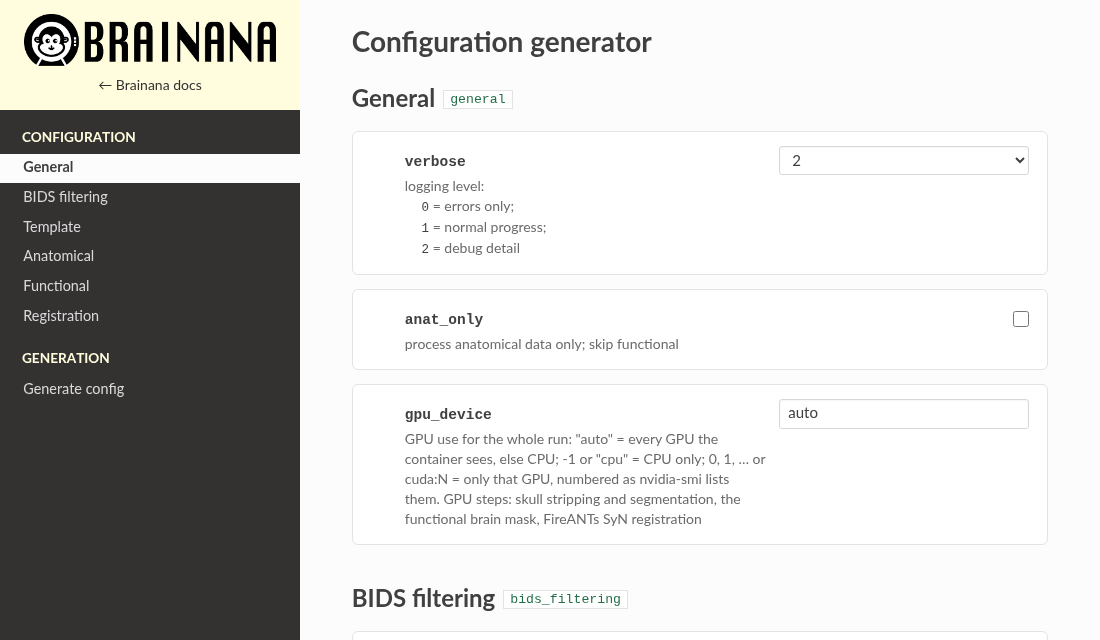
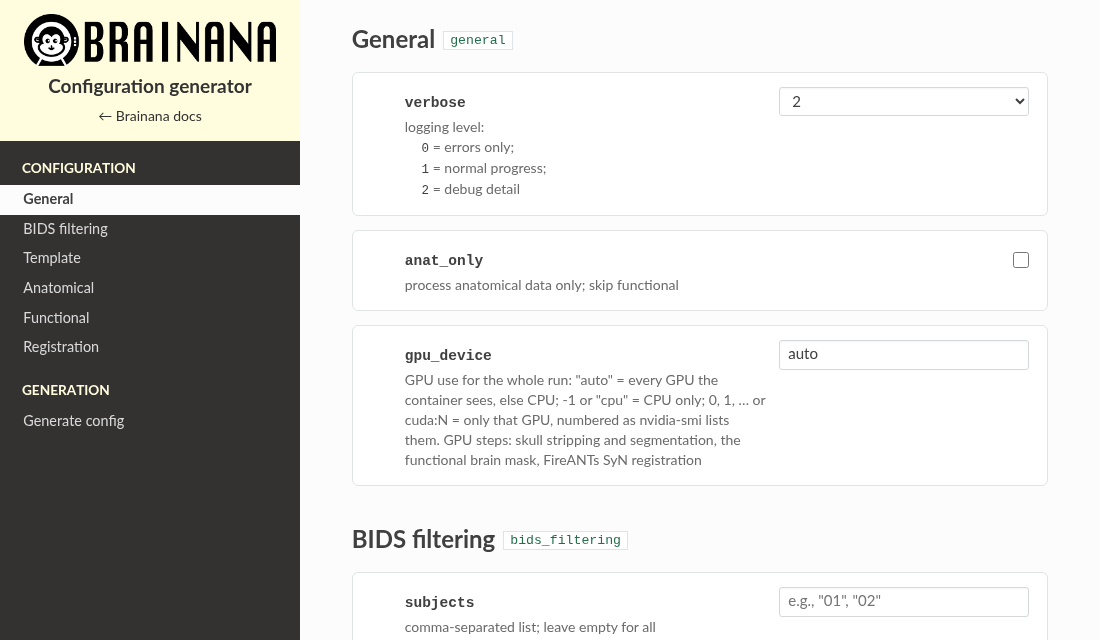
docs: merge the style guides; generator title in the sidebar; search box border
- Merge styleguide.html into styleguide_doc.html as §14 "Brand surfaces: QC report
  and notebook" (brand tokens, rules, scoped component previews) and delete it;
  point DESIGN_SYSTEM.md and the brainana-tokens.css header at the merged guide.
- Configuration generator: the app name moves into the cream sidebar header under
  the logo, so the page reads as a tool rather than a docs page; the main area
  starts at General. Generator script and default YAML unchanged.
- Docs search box: cream hairline instead of the theme's blue border (purple on focus).

diff --git a/docs_temp/update_instruction/design_system/styleguide_doc.html b/docs_temp/update_instruction/design_system/styleguide_doc.html
@@ -1,7 +1,7 @@
 <!DOCTYPE html><html lang="en"><head>
 <meta charset="utf-8"/><meta name="viewport" content="width=device-width, initial-scale=1"/>
 <title>Brainana docs style guide</title>
-<link rel="stylesheet" href="https://fonts.googleapis.com/css2?family=Lato:ital,wght@0,400;0,700;1,400&family=Roboto+Slab:wght@400;700&display=swap"/>
+<link rel="stylesheet" href="https://fonts.googleapis.com/css2?family=Lato:ital,wght@0,400;0,700;1,400&family=Roboto+Slab:wght@400;700&family=IBM+Plex+Sans:wght@400;600&family=IBM+Plex+Mono:wght@400;500&display=swap"/>
 <style>
 /* Page chrome previews the target: sphinx_rtd_theme layout + type, with the RTD blue swapped for brainana purple. */
 :root{
@@ -95,11 +95,42 @@ table.t th{font-weight:700;color:var(--bn-ink);background:var(--bn-surface)}
 .tok .nm code{background:none;border:0;padding:0;color:var(--bn-ink);font-weight:700;font-size:12px}
 .tok .hx{font-family:var(--bn-mono);color:var(--bn-muted);font-size:11.5px}
 .tok .role{color:var(--bn-text);margin-top:2px}
+
+/* ---- §14 brand previews: brand tokens scoped to .brand so they never touch the guide's own chrome.
+   Values mirror brainana-tokens.css (canonical). ---- */
+.brand{--bn-bg:#fffeee;--bn-surface:#fffddd;--bn-inset:#ffffff;--bn-ink:#1b1b16;--bn-text:#333333;--bn-muted:#6b6651;
+  --bn-border:#e6e1cd;--bn-border-mid:#cdc9b0;--bn-code-bg:#f7f6ef;--bn-accent:#fff27a;--bn-link:#8a7a00;--bn-link-hover:#6f6300;
+  --bn-btn-bg:#111111;--bn-btn-bg-hover:#333333;--bn-btn-fg:#ffffff;
+  --bn-ok:#3f6b46;--bn-ok-bg:#eef3ea;--bn-ok-border:#cdddc2;--bn-fail:#9c4636;--bn-fail-bg:#f8ece8;--bn-fail-border:#e7c8bd;
+  --bn-warn:#8a6400;--bn-warn-bg:#fdf3d6;--bn-warn-border:#e6d8a0;
+  --bn-r-card:10px;--bn-r-inset:8px;--bn-r-chip:6px;--bn-r-pill:999px;
+  --bn-bfont:"IBM Plex Sans",system-ui,-apple-system,"Segoe UI",Roboto,Helvetica,Arial,sans-serif;
+  --bn-bmono:"IBM Plex Mono",ui-monospace,SFMono-Regular,Menlo,monospace;
+  font-family:var(--bn-bfont);color:var(--bn-text);background:var(--bn-bg);border:1px solid var(--bn-border);border-radius:var(--bn-r-card);padding:18px 20px;margin:10px 0}
+.brand .b-h1{font-family:var(--bn-bfont);font-size:1.5em;font-weight:600;color:var(--bn-ink);border-bottom:3px solid var(--bn-accent);padding-bottom:.3em;margin:0 0 14px}
+.brand .b-h2{font-family:var(--bn-bfont);font-size:1.2em;font-weight:600;color:var(--bn-ink);border-bottom:1px solid var(--bn-border);padding-bottom:.3em;margin:16px 0 12px}
+.brand a{color:var(--bn-link)} .brand a:hover{color:var(--bn-link-hover)}
+.brand .bn-card{background:var(--bn-inset);border:1px solid var(--bn-border-mid);border-radius:var(--bn-r-card);padding:1em 1.2em;box-shadow:0 1px 2px rgba(60,50,0,.06)}
+.brand .bn-callout{background:var(--bn-bg);border:1px solid var(--bn-border-mid);border-left:3px solid var(--bn-accent);border-radius:var(--bn-r-card);padding:.9em 1.15em}
+.brand .bn-code{font-family:var(--bn-bmono);font-size:85%;background:var(--bn-code-bg);border:0;border-radius:var(--bn-r-chip);padding:.2em .4em;color:var(--bn-text)}
+.brand .bn-tag{font-family:var(--bn-bmono);font-size:.85em;background:var(--bn-surface);border:1px solid var(--bn-border-mid);border-radius:var(--bn-r-chip);padding:.08em .4em;color:var(--bn-text)}
+.brand .bn-btn{font-family:inherit;font-size:.95rem;background:var(--bn-btn-bg);color:var(--bn-btn-fg);border:1px solid var(--bn-btn-bg);border-radius:var(--bn-r-inset);padding:.5em 1.1em}
+.brand .bn-btn.ghost{background:var(--bn-muted);border-color:var(--bn-muted)}
+.brand .bn-badge{display:inline-block;font-size:.7rem;font-weight:600;letter-spacing:.04em;text-transform:uppercase;padding:2px 8px;border-radius:var(--bn-r-pill);border:1px solid currentColor;line-height:1.5}
+.brand .bn-badge.ok{color:var(--bn-ok)} .brand .bn-badge.fail{color:var(--bn-fail)} .brand .bn-badge.warn{color:var(--bn-warn)}
+.brand .bn-status{border:1px solid var(--bn-border-mid);border-left:3px solid var(--bn-border-mid);border-radius:var(--bn-r-card);padding:.9em 1.15em;background:var(--bn-inset);margin-top:10px}
+.brand .bn-status.ok{border-left-color:var(--bn-ok)} .brand .bn-status.warn{border-left-color:var(--bn-warn)} .brand .bn-status.fail{border-left-color:var(--bn-fail)}
+.brand .bn-status .head{display:flex;align-items:center;gap:8px;font-weight:600;margin:0 0 .4em;color:var(--bn-ink)}
+.brand .bn-status .meta{display:flex;flex-wrap:wrap;gap:6px 18px;list-style:none;padding:0;margin:10px 0 0;font-size:.9em;color:var(--bn-muted)}
+.brand .bn-status .meta b{color:var(--bn-text);font-weight:600}
+.brand .bn-status .bnote{margin:8px 0 0;font-size:.95em;color:var(--bn-text)}
+.brand .row{display:flex;flex-wrap:wrap;gap:14px;align-items:flex-start;margin-top:12px}
+.brand .row>*{flex:1 1 240px}
 </style></head>
 <body class="bn-root">
 <div class="topbar">Brainana docs<span>style guide for Read the Docs</span></div>
 <div class="wrap">
-<p class="back"><a href="styleguide.html">← Brainana design system (QC report, config generator, notebook)</a></p>
+<p class="back">QC report and notebook use the cream/yellow brand system instead: see <a href="#brand">§14 Brand surfaces</a>.</p>
 <h1 class="bn-h1">Brainana docs style guide</h1>
 <p class="lead">How the Read the Docs site at <code>docs/*.rst</code> should look and read. Brainana keeps the stock
 <code>sphinx_rtd_theme</code> and makes it quieter. Content changes happen in markup and wording. CSS stays a thin layer in
@@ -119,6 +150,7 @@ table.t th{font-weight:700;color:var(--bn-ink);background:var(--bn-surface)}
 <a href="#interactive">11. Interactive pages</a>
 <a href="#feature">12. Feature card: the config generator</a>
 <a href="#checklist">13. Review checklist</a>
+<a href="#brand">14. Brand surfaces: QC report and notebook</a>
 </nav>
 
 <!-- ============================================================ -->
@@ -281,7 +313,7 @@ map to <code>neutral</code>, <code>neutral</code>, <code>purple</code> and <code
 <table class="t">
 <tr><th>Element</th><th>Rule</th></tr>
 <tr><td>Theme</td><td><code>sphinx_rtd_theme</code> layout and type (Lato body, Roboto Slab headings, dark <code>#343131</code> sidebar). Only its accent changes: every RTD blue <code>#2980b9</code> becomes purple.</td></tr>
-<tr><td>Accent swap in <code>custom.css</code></td><td>Links and visited links <code>#6a4fb3</code>, hover <code>#563c9c</code> (6.2:1 contrast on white). Purple links are for the page body only; the dark sidebar keeps RTD's light-grey links. The sidebar uses the brand cream <code>--bn-surface</code> <code>#fffddd</code> for the logo header <code>.wy-side-nav-search</code>, the hover/active rows and the mobile top bar (all with dark <code>#333</code> text), and for the section labels. This is the one place the yellow brand family appears on RTD, next to the cream code blocks.</td></tr>
+<tr><td>Accent swap in <code>custom.css</code></td><td>Links and visited links <code>#6a4fb3</code>, hover <code>#563c9c</code> (6.2:1 contrast on white). Purple links are for the page body only; the dark sidebar keeps RTD's light-grey links. The sidebar uses the brand cream <code>--bn-surface</code> <code>#fffddd</code> for the logo header <code>.wy-side-nav-search</code>, the hover/active rows and the mobile top bar (all with dark <code>#333</code> text), and for the section labels. The search box in the header uses the cream hairline <code>#e6e1cd</code> (purple on focus) instead of the theme's blue border. This is the one place the yellow brand family appears on RTD, next to the cream code blocks.</td></tr>
 <tr><td>Amber</td><td>The only color outside the brand pair: <code>#d68a2e</code> rule / <code>#9a5d12</code> title, on <code>warning</code> boxes only. RTD's other oranges (the version badge and the default admonition bars) are recolored.</td></tr>
 <tr><td>Code blocks</td><td>Use the brand page cream <code>--bn-bg</code> (<code>#fffeee</code> fill) with the brand hairline <code>#e6e1cd</code> border. It is the same yellow family as the cream sidebar, light enough to stay calm, and the border defines the block against the near-white page. Use it for every block and for widget output.</td></tr>
 <tr><td>Headings</td><td>Theme default color everywhere. <strong>Remove the blue FAQ question headings</strong>: blue on a heading reads as a link.</td></tr>
@@ -491,7 +523,7 @@ Do not use <code>important</code>, <code>caution</code>, <code>attention</code>,
 <ul class="rules">
 <li>Widgets embedded <em>inside</em> an RTD page follow this guide: neutral greys (<code>#f6f7f8</code> panels, <code>#d6d9dc</code> borders), purple for interactive accents, and the §4 code surface for code output.
  <strong>No dark code panel</strong> (the builder's <code>#1e1e2e</code>/<code>#cdd6f4</code>), no GitHub grey (<code>#f6f8fa</code>/<code>#d0d7de</code>) and no amber hint box (<code>#fff8e1</code>/<code>#f9a825</code>). Hints use the §6 note style.</li>
-<li>The standalone configuration generator follows this guide too: the dark sidebar with the cream logo header and a "← Brainana docs" link, Lato bold section titles (unlike the docs' Roboto Slab) with the config key as a chip; every direct child of a section is a white card (a plain option, or a pipeline module with its checkbox and its advanced settings opening inside the card); each option inside a card is a settings row (name and help on the left, control in a fixed right column, hairline between rows); subgroups are small muted key labels; purple controls, a cream <code>--bn-surface</code> <strong>Generate</strong> button (dark text, <code>#e6e1cd</code> border, purple border on hover), amber validation errors, green success notes, and YAML output in the code surface. Its stylesheet is a single <code>&lt;style&gt;</code> block built from the §2 tokens.</li>
+<li>The standalone configuration generator follows this guide too: the dark sidebar whose cream header carries the logo, the app name "Configuration generator" (so the page reads as a tool, not a docs page; the main area has no page title) and a "← Brainana docs" link; Lato bold section titles (unlike the docs' Roboto Slab) with the config key as a chip; every direct child of a section is a white card (a plain option, or a pipeline module with its checkbox and its advanced settings opening inside the card); each option inside a card is a settings row (name and help on the left, control in a fixed right column, hairline between rows); subgroups are small muted key labels; purple controls, the cream <code>--bn-surface</code> <strong>Generate</strong> button (dark text, <code>#e6e1cd</code> border, purple border on hover), amber validation errors, green success notes, and YAML output in the code surface. Its stylesheet is a single <code>&lt;style&gt;</code> block built from the §2 tokens.</li>
 <li>Inline <code>&lt;style&gt;</code> in a widget is scoped under one wrapper class, so it can't leak into the theme.</li>
 </ul>
 
@@ -572,5 +604,69 @@ and, optionally, a <code>:bn-tag:`Recommended`</code> pill. The second option ge
 <li>Links to the configuration generator go to <code>:doc:`config_generator`</code>.</li>
 <li>Local build (<code>docs/build_rtd_local.sh</code>, <code>.rtd-venv</code>) shows no new warnings.</li>
 </ul>
+
+<!-- ============================================================ -->
+<h2 class="bn-h2" id="brand">14. Brand surfaces: QC report and notebook</h2>
+<p>The HTML <strong>QC report</strong> and the <strong>Brainana Lite notebook header</strong> use the cream/yellow brand system with IBM Plex, not the docs look above.
+Its canonical values are in <code>brainana-tokens.css</code> (this folder). Each surface carries its own copy by necessity:</p>
+<table class="t">
+<tr><th>Surface</th><th>Where the tokens live</th><th>Why</th></tr>
+<tr><td>QC report</td><td>inlined in <code>src/nhp_mri_prep/quality_control/reports.py</code> as <code>_REPORT_CSS</code> (+ the dropdown JS <code>_REPORT_JS</code>)</td><td>reports are portable single HTML files, with no sibling CSS</td></tr>
+<tr><td>Notebook header</td><td>inline <code>style="…"</code> in <code>examples/BrainanaLite.ipynb</code> cell 0</td><td>Colab sanitizes <code>&lt;style&gt;</code> and external CSS in markdown cells</td></tr>
+<tr><td>This guide</td><td>a <code>.brand</code>-scoped copy for the previews below</td><td>keeps brand variables away from the guide's docs chrome</td></tr>
+</table>
+<p class="note">When you change a brand token, update <code>brainana-tokens.css</code> and mirror the value into every surface above. More detail: <code>DESIGN_SYSTEM.md</code>.</p>
+
+<h3>Brand tokens</h3>
+<div class="tokgrid">
+  <div class="tok"><span class="chip" style="background:#fffeee"></span><span class="nm"><code>--bn-bg</code><span class="hx">#fffeee</span><span class="role">Page background (cream)</span></span></div>
+  <div class="tok"><span class="chip" style="background:#fffddd"></span><span class="nm"><code>--bn-surface</code><span class="hx">#fffddd</span><span class="role">Chips, nav, sidebars</span></span></div>
+  <div class="tok"><span class="chip" style="background:#ffffff"></span><span class="nm"><code>--bn-inset</code><span class="hx">#ffffff</span><span class="role">Inset white panels, report body</span></span></div>
+  <div class="tok"><span class="chip" style="background:#1b1b16"></span><span class="nm"><code>--bn-ink</code><span class="hx">#1b1b16</span><span class="role">Headings</span></span></div>
+  <div class="tok"><span class="chip" style="background:#333333"></span><span class="nm"><code>--bn-text</code><span class="hx">#333333</span><span class="role">Body text</span></span></div>
+  <div class="tok"><span class="chip" style="background:#6b6651"></span><span class="nm"><code>--bn-muted</code><span class="hx">#6b6651</span><span class="role">Secondary text</span></span></div>
+  <div class="tok"><span class="chip" style="background:#e6e1cd"></span><span class="nm"><code>--bn-border</code><span class="hx">#e6e1cd</span><span class="role">Airy hairlines</span></span></div>
+  <div class="tok"><span class="chip" style="background:#cdc9b0"></span><span class="nm"><code>--bn-border-mid</code><span class="hx">#cdc9b0</span><span class="role">Chips, inputs, figure frames</span></span></div>
+  <div class="tok"><span class="chip" style="background:#f7f6ef"></span><span class="nm"><code>--bn-code-bg</code><span class="hx">#f7f6ef</span><span class="role">Inline code and code blocks</span></span></div>
+  <div class="tok"><span class="chip" style="background:#fff27a"></span><span class="nm"><code>--bn-accent</code><span class="hx">#fff27a</span><span class="role">Signature yellow: heading underlines, brand chip, hover tints (decorative only)</span></span></div>
+  <div class="tok"><span class="chip" style="background:#8a7a00"></span><span class="nm"><code>--bn-link</code><span class="hx">#8a7a00</span><span class="role">Links and interactive text (hover #6f6300)</span></span></div>
+  <div class="tok"><span class="chip" style="background:#3f6b46"></span><span class="nm"><code>--bn-ok</code><span class="hx">#3f6b46</span><span class="role">Pass (on #eef3ea, border #cdddc2)</span></span></div>
+  <div class="tok"><span class="chip" style="background:#8a6400"></span><span class="nm"><code>--bn-warn</code><span class="hx">#8a6400</span><span class="role">Pass with warnings (on #fdf3d6, border #e6d8a0)</span></span></div>
+  <div class="tok"><span class="chip" style="background:#9c4636"></span><span class="nm"><code>--bn-fail</code><span class="hx">#9c4636</span><span class="role">Fail (on #f8ece8, border #e7c8bd)</span></span></div>
+</div>
+<p class="note">Radius: card 10px · inset 8px · chip 6px · pill 999px. Type: IBM Plex Sans for reading text, IBM Plex Mono for code, paths and values only;
+16px / line-height 1.5, headings line-height 1.25, prose measure about 760px.</p>
+
+<h3>Rules</h3>
+<ul class="rules">
+<li><strong>Sans everywhere</strong> (IBM Plex Sans). Monospace only for literal code, file paths and config values. Plex loads from Google Fonts with a system-sans fallback, so offline reports render in the system font.</li>
+<li><strong>Yellow is decorative</strong>: heading underlines, the brand chip, hover tints. Never body text, never a state signal.</li>
+<li><strong>State uses the earthy green / amber / red</strong>: green pass, amber pass with warnings (the workflow finished but tolerated task failures, <code>errorStrategy 'ignore'</code>), red fail.</li>
+<li><strong>One interactive accent</strong>: links and interactive text use <code>--bn-link</code> (mustard).</li>
+<li>QC report specifics: no yellow in dividers (section rules are <code>--bn-border-mid</code> grey; yellow appears only as the <code>brainana</code> chip in the top bar). Hierarchy reads by treatment, not indentation: section (H1, grey rule) › group (BIDS chips like <code>ses-001</code> <code>run-1</code>; subject-level anat → <code>subject-level</code>) › T1w/T2w (uppercase eyebrow) › figure (linked title, optional caption, borderless image). Run status is calm: neutral card, ink headline, color only on the badge and a thin left border. The top bar is fixed and flat; multi-group modalities use a native <code>&lt;details&gt;</code> dropdown.</li>
+</ul>
+
+<h3>Components</h3>
+<div class="brand">
+  <div class="b-h1">Heading 1 (yellow underline)</div>
+  <div class="b-h2">Heading 2 (hairline)</div>
+  <p style="margin:0">Body text in IBM Plex Sans with a <a href="#brand">mustard link</a>, inline <span class="bn-code">WORKING_DIR</span> and tags <span class="bn-tag">ses-001</span> <span class="bn-tag">run-1</span>.</p>
+  <div class="row">
+    <div class="bn-card"><strong>Card</strong><p style="margin:.5em 0 0">White inset, hairline border, soft shadow.</p></div>
+    <div class="bn-callout"><strong>Callout</strong>: cream with a yellow left accent, for notes and tips.</div>
+  </div>
+  <div class="row" style="align-items:center">
+    <div style="flex:0 0 auto"><button class="bn-btn" type="button">Primary</button> <button class="bn-btn ghost" type="button">Secondary</button></div>
+    <div>Badges: <span class="bn-badge ok">Pass</span> <span class="bn-badge warn">Pass with warnings</span> <span class="bn-badge fail">Fail</span></div>
+  </div>
+  <div class="bn-status ok"><p class="head"><span class="bn-badge ok">Pass</span>Completed successfully</p>
+    <ul class="meta"><li>Duration: <b>10m 30s</b></li><li>Tasks succeeded: <b>185</b></li></ul></div>
+  <div class="bn-status warn"><p class="head"><span class="bn-badge warn">Pass with warnings</span>Completed with 1 failed task</p>
+    <ul class="meta"><li>Duration: <b>10m 30s</b></li><li>Tasks succeeded: <b>185</b></li><li>Tasks ignored: <b>1</b></li></ul>
+    <p class="bnote">One or more optional steps failed (often surface reconstruction). Check the execution trace for details.</p></div>
+  <div class="bn-status fail"><p class="head"><span class="bn-badge fail">Fail</span>Early abort: the pipeline did not finish</p>
+    <ul class="meta"><li>Duration: <b>4m 12s</b></li><li>Tasks succeeded: <b>42</b></li><li>Tasks failed: <b>1</b></li></ul>
+    <p class="bnote">This report was generated from the steps that completed before the failure; some sections may be missing.</p></div>
+</div>
 </div>
 </body></html>

diff --git a/docs/_static/config_generator.html b/docs/_static/config_generator.html
@@ -36,7 +36,8 @@ a:hover{color:var(--purple-dark);text-decoration:underline}
 .nav-sidebar{width:300px;flex-shrink:0;background:var(--sidebar);position:sticky;top:0;height:100vh;overflow-y:auto;padding-bottom:24px}
 .nav-head{background:var(--sidebar-head);padding:14px 16px 12px;text-align:center}
 .nav-logo{display:block;width:100%;max-width:252px;height:auto;margin:0 auto}
-.nav-back{display:inline-block;margin-top:8px;font-size:14px;color:#333}
+.nav-app{margin-top:10px;font-family:var(--head);font-size:19px;font-weight:700;line-height:1.25;color:#333}
+.nav-back{display:inline-block;margin-top:6px;font-size:14px;color:#333}
 .nav-back:hover{color:#333}
 .nav-section{margin-top:12px}
 .nav-section-title{color:var(--sidebar-label);font-weight:700;font-size:85%;text-transform:uppercase;line-height:32px;padding:0 1.618em}
@@ -142,6 +143,7 @@ button#generate:hover{background:var(--sidebar-head);color:var(--purple-dark);bo
         <nav class="nav-sidebar">
             <div class="nav-head">
                 <img src="brainana_logo_side.png" alt="Brainana" class="nav-logo">
+                <div class="nav-app">Configuration generator</div>
                 <a class="nav-back" href="../config_generator.html">&larr; Brainana docs</a>
             </div>
             <div class="nav-section">
@@ -159,7 +161,6 @@ button#generate:hover{background:var(--sidebar-head);color:var(--purple-dark);bo
             </div>
         </nav>
         <main class="main-content">
-    <h1>Configuration generator</h1>
     
     <form id="configForm">
         <!-- Layout: .param-block = flat keys; .step = nested pipeline modules. Dividers

diff --git a/docs_temp/update_instruction/design_system/brainana-tokens.css b/docs_temp/update_instruction/design_system/brainana-tokens.css
@@ -1,7 +1,8 @@
 @import url('https://fonts.googleapis.com/css2?family=IBM+Plex+Sans:wght@400;500;600;700&family=IBM+Plex+Mono:wght@400;500&display=swap');
-/* brainana design tokens — single source of truth.
-   Web surfaces link this file; the notebook (Colab can't link CSS) and reports.py
-   (portable single file) inline the same values. */
+/* brainana brand tokens — single source of truth for the QC report and notebook header.
+   reports.py (portable single file) and the notebook (Colab can't link CSS) inline these
+   values; styleguide_doc.html §14 previews them. The RTD docs and the configuration
+   generator use the docs tokens in styleguide_doc.html §2 instead. */
 :root{
   /* surfaces */
   --bn-bg:#fffeee; --bn-surface:#fffddd; --bn-inset:#ffffff;

diff --git a/docs/_static/custom.css b/docs/_static/custom.css
@@ -30,6 +30,14 @@
 .wy-nav-top i {
   color: #333;
 }
+/* Search box: the theme's border is blue (#2472a4); use the cream hairline, purple on focus. */
+.wy-side-nav-search input[type="text"] {
+  border-color: #e6e1cd;
+  box-shadow: none;
+}
+.wy-side-nav-search input[type="text"]:focus {
+  border-color: #6a4fb3;
+}
 .wy-menu-vertical a:active,
 .wy-nav .wy-menu-vertical a:hover {
   background-color: #fffddd;

diff --git a/docs_temp/update_instruction/design_system/DESIGN_SYSTEM.md b/docs_temp/update_instruction/design_system/DESIGN_SYSTEM.md
@@ -3,9 +3,9 @@
 The single source of truth for the look of the **QC report** and the **BrainanaLite notebook**
 header. The RTD docs and the configuration generator follow `styleguide_doc.html` instead (see below).
 
-Open **`styleguide.html`** (in this folder) in a browser for a live reference — color
-swatches, the type scale, and every component. **`brainana-tokens.css`** is the canonical
-token + component stylesheet that page links.
+Open **`styleguide_doc.html`** (in this folder) in a browser: its **§14 Brand surfaces** section is
+the live reference for these tokens and components. **`brainana-tokens.css`** is the canonical
+token + component stylesheet.
 
 ## How it's distributed
 
@@ -15,11 +15,11 @@ The tokens are defined once (below) and applied per surface in the way that surf
 | --- | --- | --- |
 | QC report | inlined in `src/nhp_mri_prep/quality_control/reports.py` as `_REPORT_CSS` (+ the dropdown JS `_REPORT_JS`) | reports are portable single HTML files — no sibling CSS |
 | Notebook header | inline `style="…"` attributes in `examples/BrainanaLite.ipynb` cell 0 | Colab sanitizes `<style>`/external CSS in markdown cells |
-| Style guide | links `brainana-tokens.css` directly | it lives next to the file |
+| Style guide (`styleguide_doc.html` §14) | a `.brand`-scoped copy for the previews | keeps brand variables away from the guide's docs chrome |
 
 The **RTD docs** (`docs/*.rst`) and the **configuration generator** (`docs/_static/config_generator.html`, restyled 2026-10-09 to match the docs) are a separate surface and do **not** use these tokens: they keep
 `sphinx_rtd_theme` with a purple/green accent swap in `docs/_static/custom.css`. Their rules
-(palette, diagrams, emphasis, admonitions, figures) live in **`styleguide_doc.html`** in this folder.
+(palette, diagrams, emphasis, admonitions, figures) live in **`styleguide_doc.html`** §1–13.
 
 When you change a token, update `brainana-tokens.css` here **and** mirror the value into
 the surfaces above (they each carry their own copy by necessity).
@@ -73,7 +73,7 @@ the surfaces above (they each carry their own copy by necessity).
 - The top bar is a fixed flat bar; multi-group modalities use a native `<details>`
   dropdown closed by a tiny capture-phase script (no jQuery/Bootstrap).
 
-## Components (see `styleguide.html`)
+## Components (see `styleguide_doc.html` §14)
 
 `.bn-card` · `.bn-callout` · `.bn-code` / `.bn-tag` · `.bn-btn` (`.ghost`) ·
 `.bn-badge` (`.ok` / `.fail` / `.warn`) · `.bn-status` (`.ok` / `.fail`) ·
